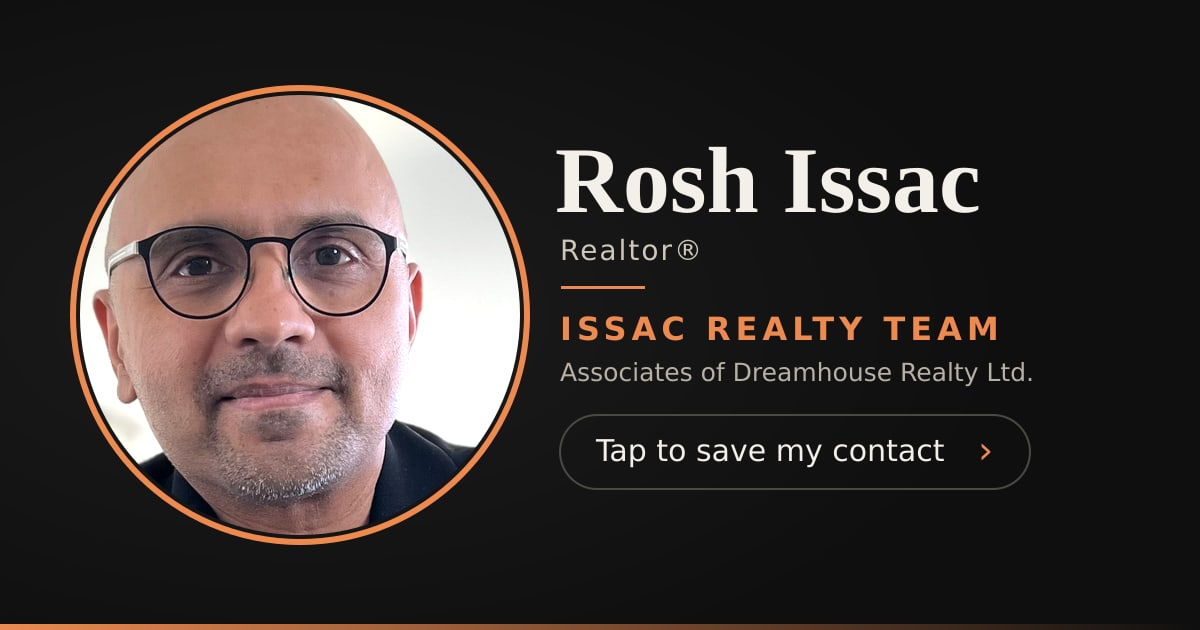
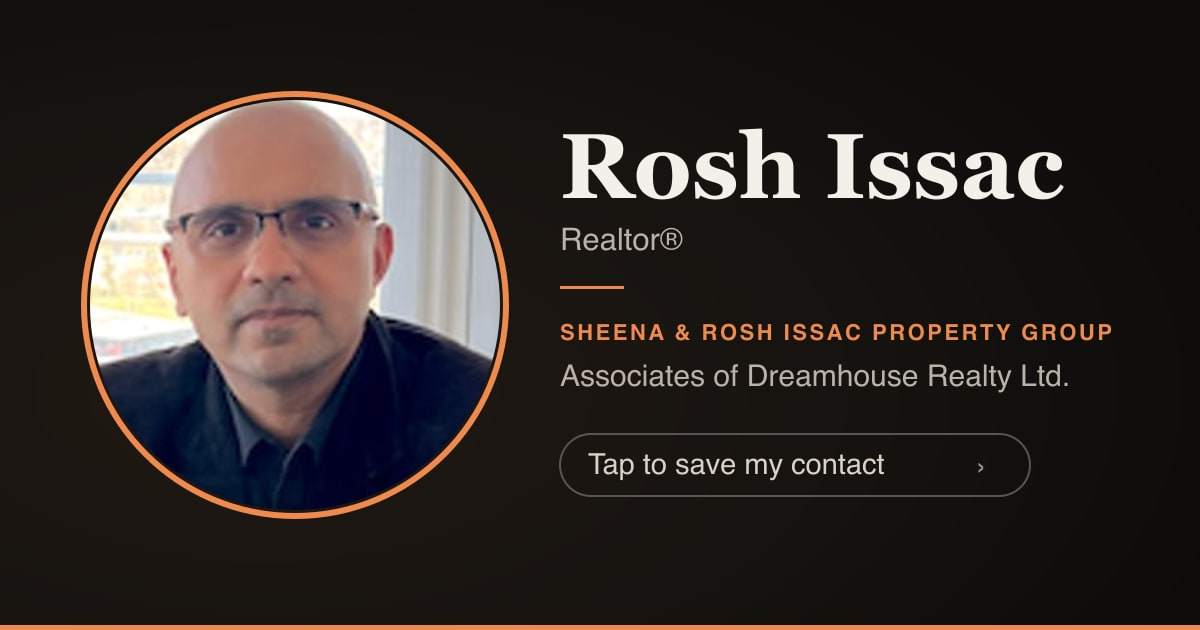
Rebrand to Sheena & Rosh Issac Property Group
Unify the team/group name to match Sheena's card: "Issac Realty Team" →
"Sheena & Rosh Issac Property Group" (body, footer, title, meta, OG banner).
Rebased onto latest main so the gold-CTA / orange-accent work (#11–#13) is
preserved. Role stays Realtor®; brokerage disclosure intact. SW cache → v7.

Changed region(s): [[0.0308, 0.1206, 0.925, 0.8746], [0.0, 0.9651, 1.0, 1.0]]

diff --git a/index.html b/index.html
@@ -13,17 +13,17 @@
        No build step. No CDN for first paint. Edit, commit, done.
   ═══════════════════════════════════════════════════════════════════════ -->
 
-  <title>Rosh Issac · Issac Realty Team</title>
-  <meta name="description" content="Connect with Rosh Issac — Realtor® | Issac Realty Team, Associates of Dreamhouse Realty Ltd., Calgary, AB." />
+  <title>Rosh Issac · Sheena & Rosh Issac Property Group</title>
+  <meta name="description" content="Connect with Rosh Issac — Realtor® | Sheena & Rosh Issac Property Group, Associates of Dreamhouse Realty Ltd., Calgary, AB." />
 
   <!-- Open Graph (WhatsApp / iMessage previews) -->
-  <meta property="og:title"       content="Rosh Issac · Issac Realty Team | Dreamhouse Realty Ltd." />
-  <meta property="og:description" content="Connect with Rosh Issac — Realtor® | Issac Realty Team, Associates of Dreamhouse Realty Ltd., Calgary, AB." />
+  <meta property="og:title"       content="Rosh Issac · Sheena & Rosh Issac Property Group | Dreamhouse Realty Ltd." />
+  <meta property="og:description" content="Connect with Rosh Issac — Realtor® | Sheena & Rosh Issac Property Group, Associates of Dreamhouse Realty Ltd., Calgary, AB." />
   <meta property="og:image"       content="https://roshaissac.github.io/Businesscard/og.jpg" />
   <meta property="og:image:type"   content="image/jpeg" />
   <meta property="og:image:width"  content="1200" />
   <meta property="og:image:height" content="630" />
-  <meta property="og:image:alt"    content="Rosh Issac — Realtor®, Issac Realty Team" />
+  <meta property="og:image:alt"    content="Rosh Issac — Realtor®, Sheena & Rosh Issac Property Group" />
   <meta property="og:type"        content="profile" />
   <meta name="twitter:card"       content="summary_large_image" />
   <meta name="twitter:image"      content="https://roshaissac.github.io/Businesscard/og.jpg" />
@@ -580,7 +580,7 @@
 
         <!-- Affiliation (RECA: team always shown with brokerage) -->
         <div class="identity">
-          <p class="team">Issac Realty Team</p>
+          <p class="team">Sheena & Rosh Issac Property Group</p>
           <p class="affiliation" id="card-brokerage"></p>
         </div>
 
@@ -851,7 +851,7 @@
     <div class="bar-inner">
       <p class="copy">
         <span class="a">Rosh Issac</span> · Realtor®<br>
-        <b>Issac Realty Team</b> — Associates of <b>Dreamhouse Realty Ltd.</b>, Calgary AB<br>
+        <b>Sheena & Rosh Issac Property Group</b> — Associates of <b>Dreamhouse Realty Ltd.</b>, Calgary AB<br>
         &copy; <span id="yr"></span> · <b>Issac Realty Inc.</b>
       </p>
       <picture>
@@ -878,7 +878,7 @@
     linkedin     : 'https://www.linkedin.com/in/roshissac',
     website      : 'https://issacrealty.com',
     whatsapp     : '18254495083',
-    titleFull    : 'Realtor® | Issac Realty Team - Associates of Dreamhouse Realty Ltd.',
+    titleFull    : 'Realtor® | Sheena & Rosh Issac Property Group - Associates of Dreamhouse Realty Ltd.',
     company      : 'Issac Realty Inc',
     brokerage    : 'Dreamhouse Realty Ltd.',
     city         : 'Calgary, AB',
@@ -1061,7 +1061,7 @@
   function nativeShare() {
     haptic();
     if (navigator.share) {
-      navigator.share({ title: 'Rosh Issac — Realtor® | Issac Realty Team', text: 'Connect with Rosh Issac, Realtor® at Issac Realty Team', url: ME.cardUrl }).catch(() => {});
+      navigator.share({ title: 'Rosh Issac — Realtor® | Sheena & Rosh Issac Property Group', text: 'Connect with Rosh Issac, Realtor® at Sheena & Rosh Issac Property Group', url: ME.cardUrl }).catch(() => {});
     } else { copyLink(); }
   }
 

diff --git a/sw.js b/sw.js
@@ -1,7 +1,7 @@
 /* Rosh Issac digital card — service worker
    Strategy: network-first for the page (always fresh when online),
    cache fallback for offline. Bump CACHE to force an update. */
-const CACHE = 'rosh-card-v6';
+const CACHE = 'rosh-card-v7';
 const SHELL = ['./', './index.html', './manifest.json', './icon.svg',
   './portrait.webp', './portrait.jpg', './dreamhouse-logo.webp'];
 

diff --git a/CLAUDE.md b/CLAUDE.md
@@ -5,10 +5,10 @@ Edit the `ME` object in the `<script>` for contact details; brand colors live
 in the `:root` CSS custom properties. Assets are generated with `sharp`.
 
 ## ⚠ RECA COMPLIANCE — non-negotiable
-- **"Issac Realty Team" must ALWAYS appear together with "Dreamhouse Realty Ltd."**
+- **"Sheena & Rosh Issac Property Group" must ALWAYS appear together with "Dreamhouse Realty Ltd."**
   Whenever the team name is shown (card, OG banner, README, any new surface),
   it must be immediately followed/accompanied by the brokerage line, e.g.
-  *"Issac Realty Team — Associates of Dreamhouse Realty Ltd."*
+  *"Sheena & Rosh Issac Property Group — Associates of Dreamhouse Realty Ltd."*
   Never show the team name alone. This is a real-estate licensing requirement.
 - The brokerage (Dreamhouse Realty Ltd.) must remain visibly disclosed on the
   card — currently the sticky bottom band (logo + copyright) and the body

diff --git a/README.md b/README.md
@@ -2,7 +2,7 @@
 
 **Live card:** https://roshaissac.github.io/Businesscard
 
-A mobile-first, NFC-ready digital business card for **Rosh Issac, Realtor® | Issac Realty Team** (Associates of Dreamhouse Realty Ltd.). Built as a single, self-contained `index.html` with **no build step and no render-blocking CDNs** — it deploys exactly as written on GitHub Pages.
+A mobile-first, NFC-ready digital business card for **Rosh Issac, Realtor® | Sheena & Rosh Issac Property Group** (Associates of Dreamhouse Realty Ltd.). Built as a single, self-contained `index.html` with **no build step and no render-blocking CDNs** — it deploys exactly as written on GitHub Pages.
 
 ---
 
